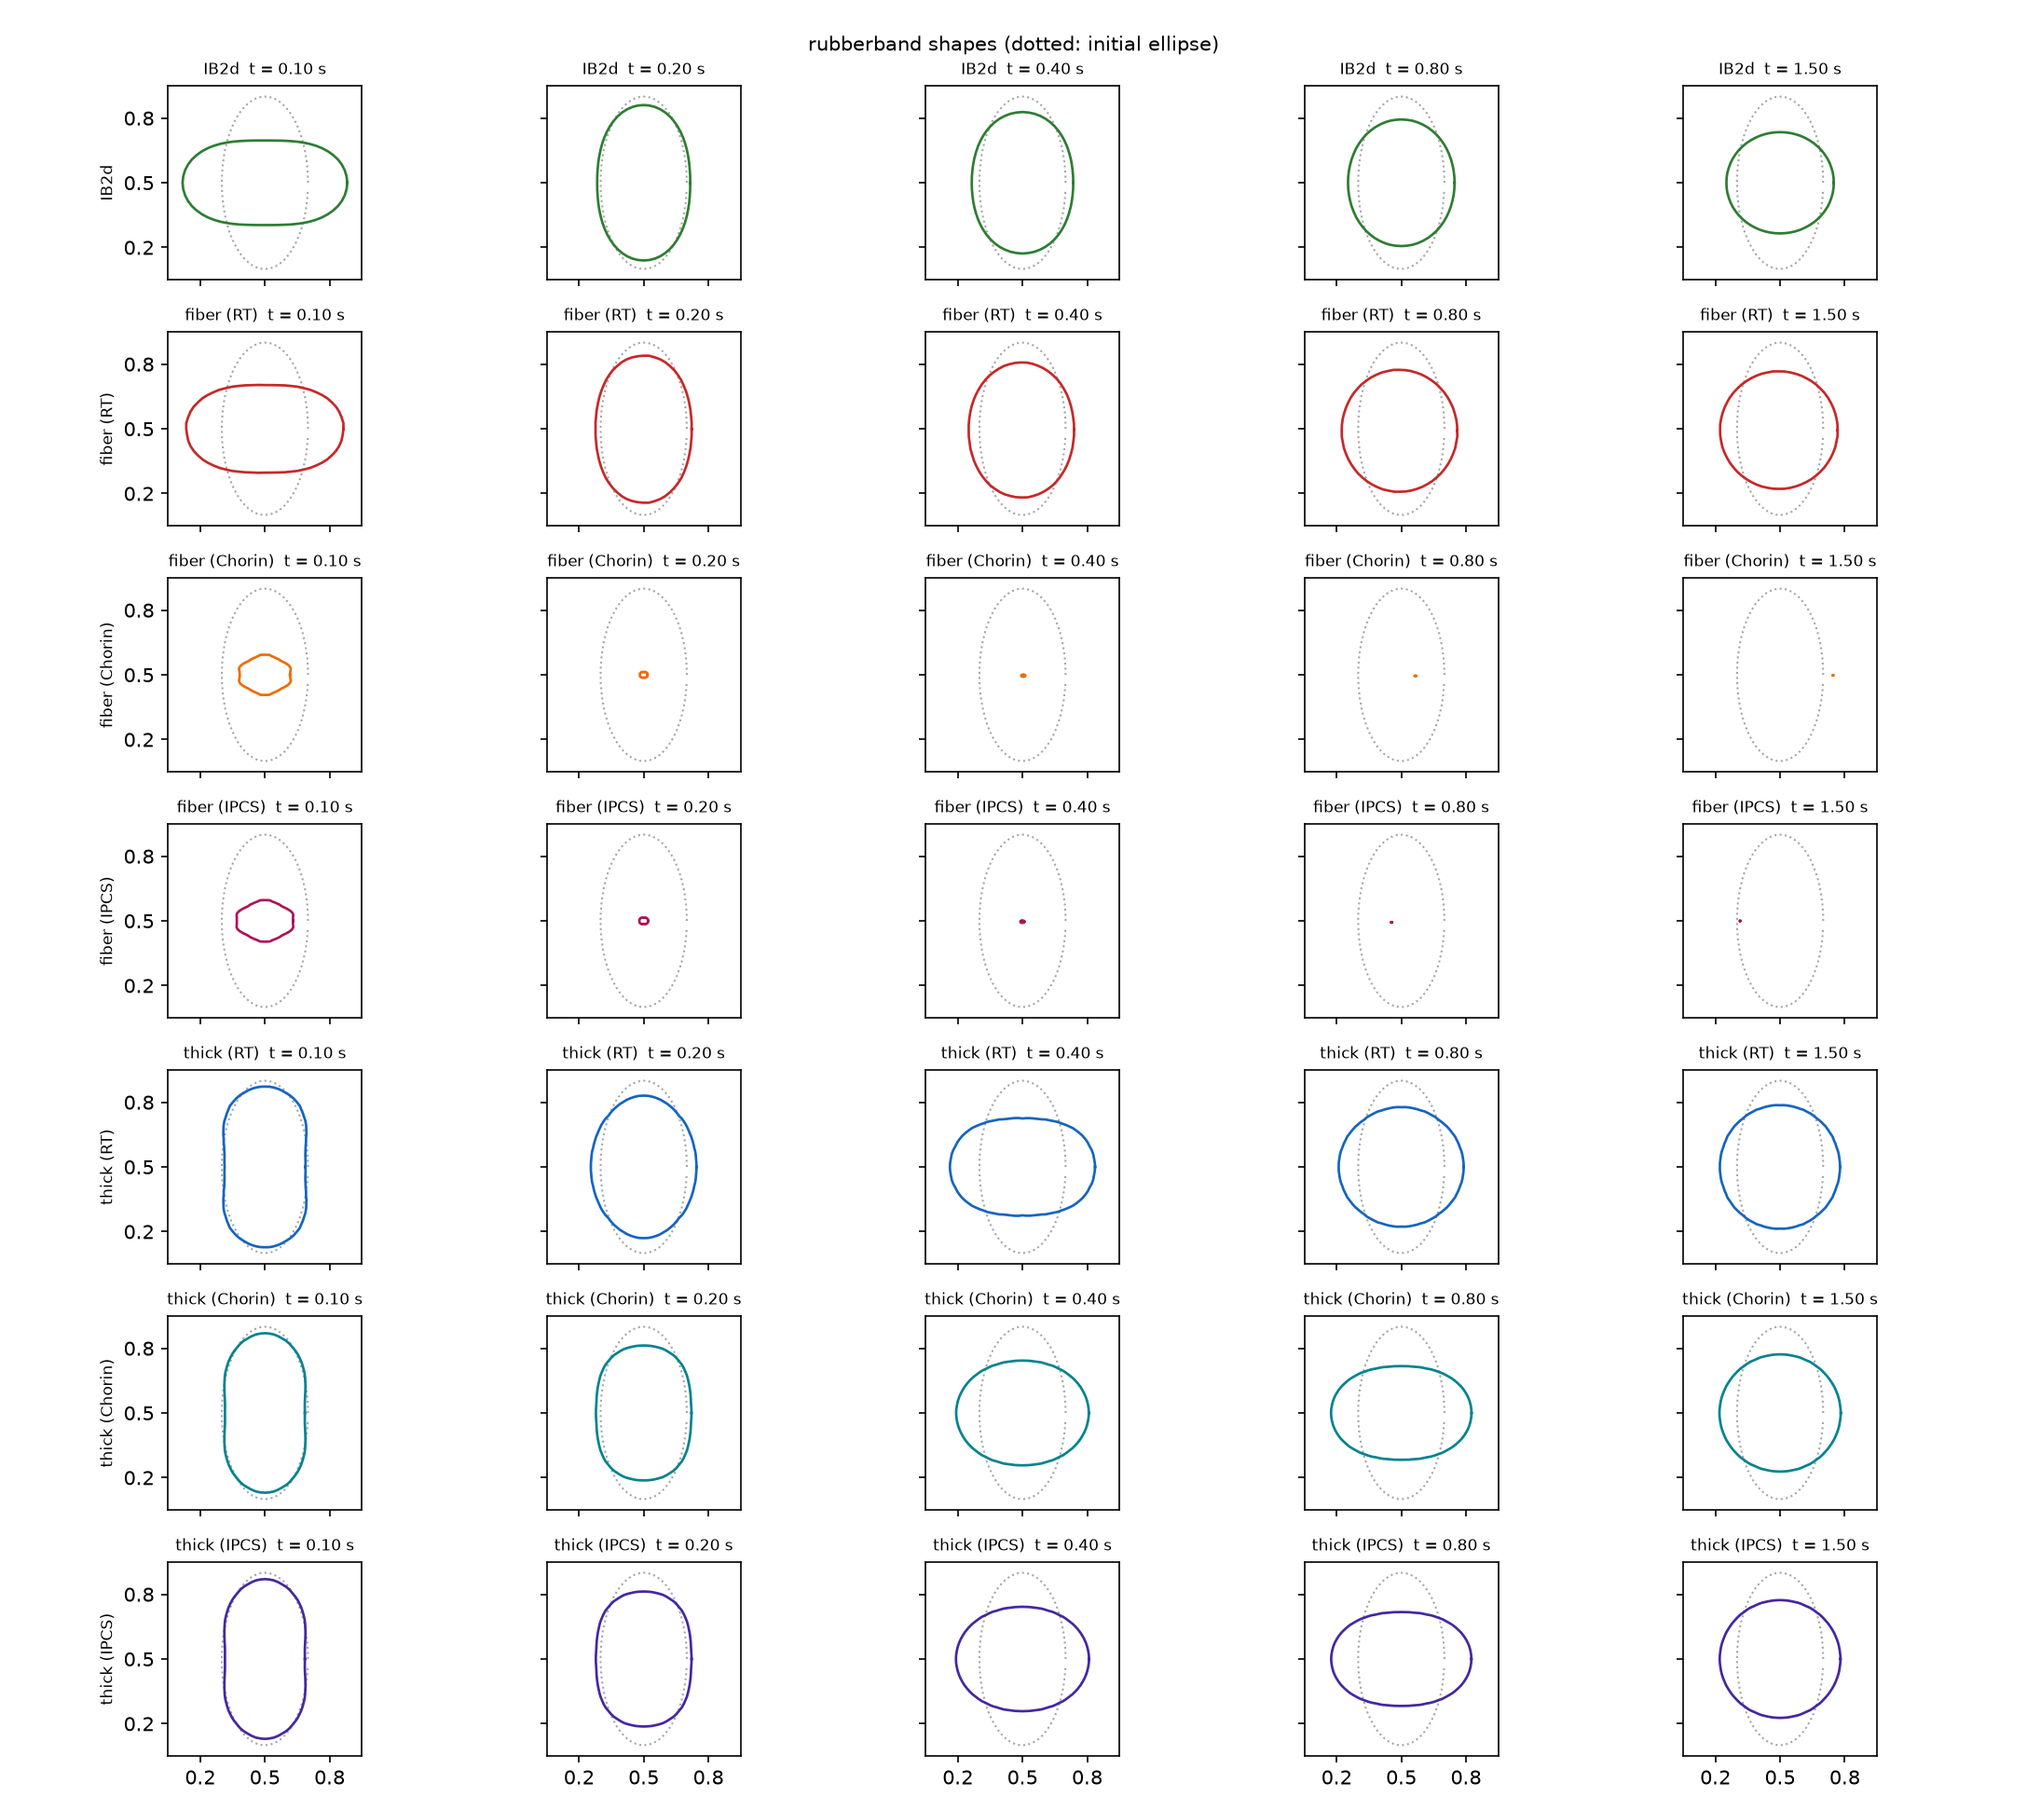
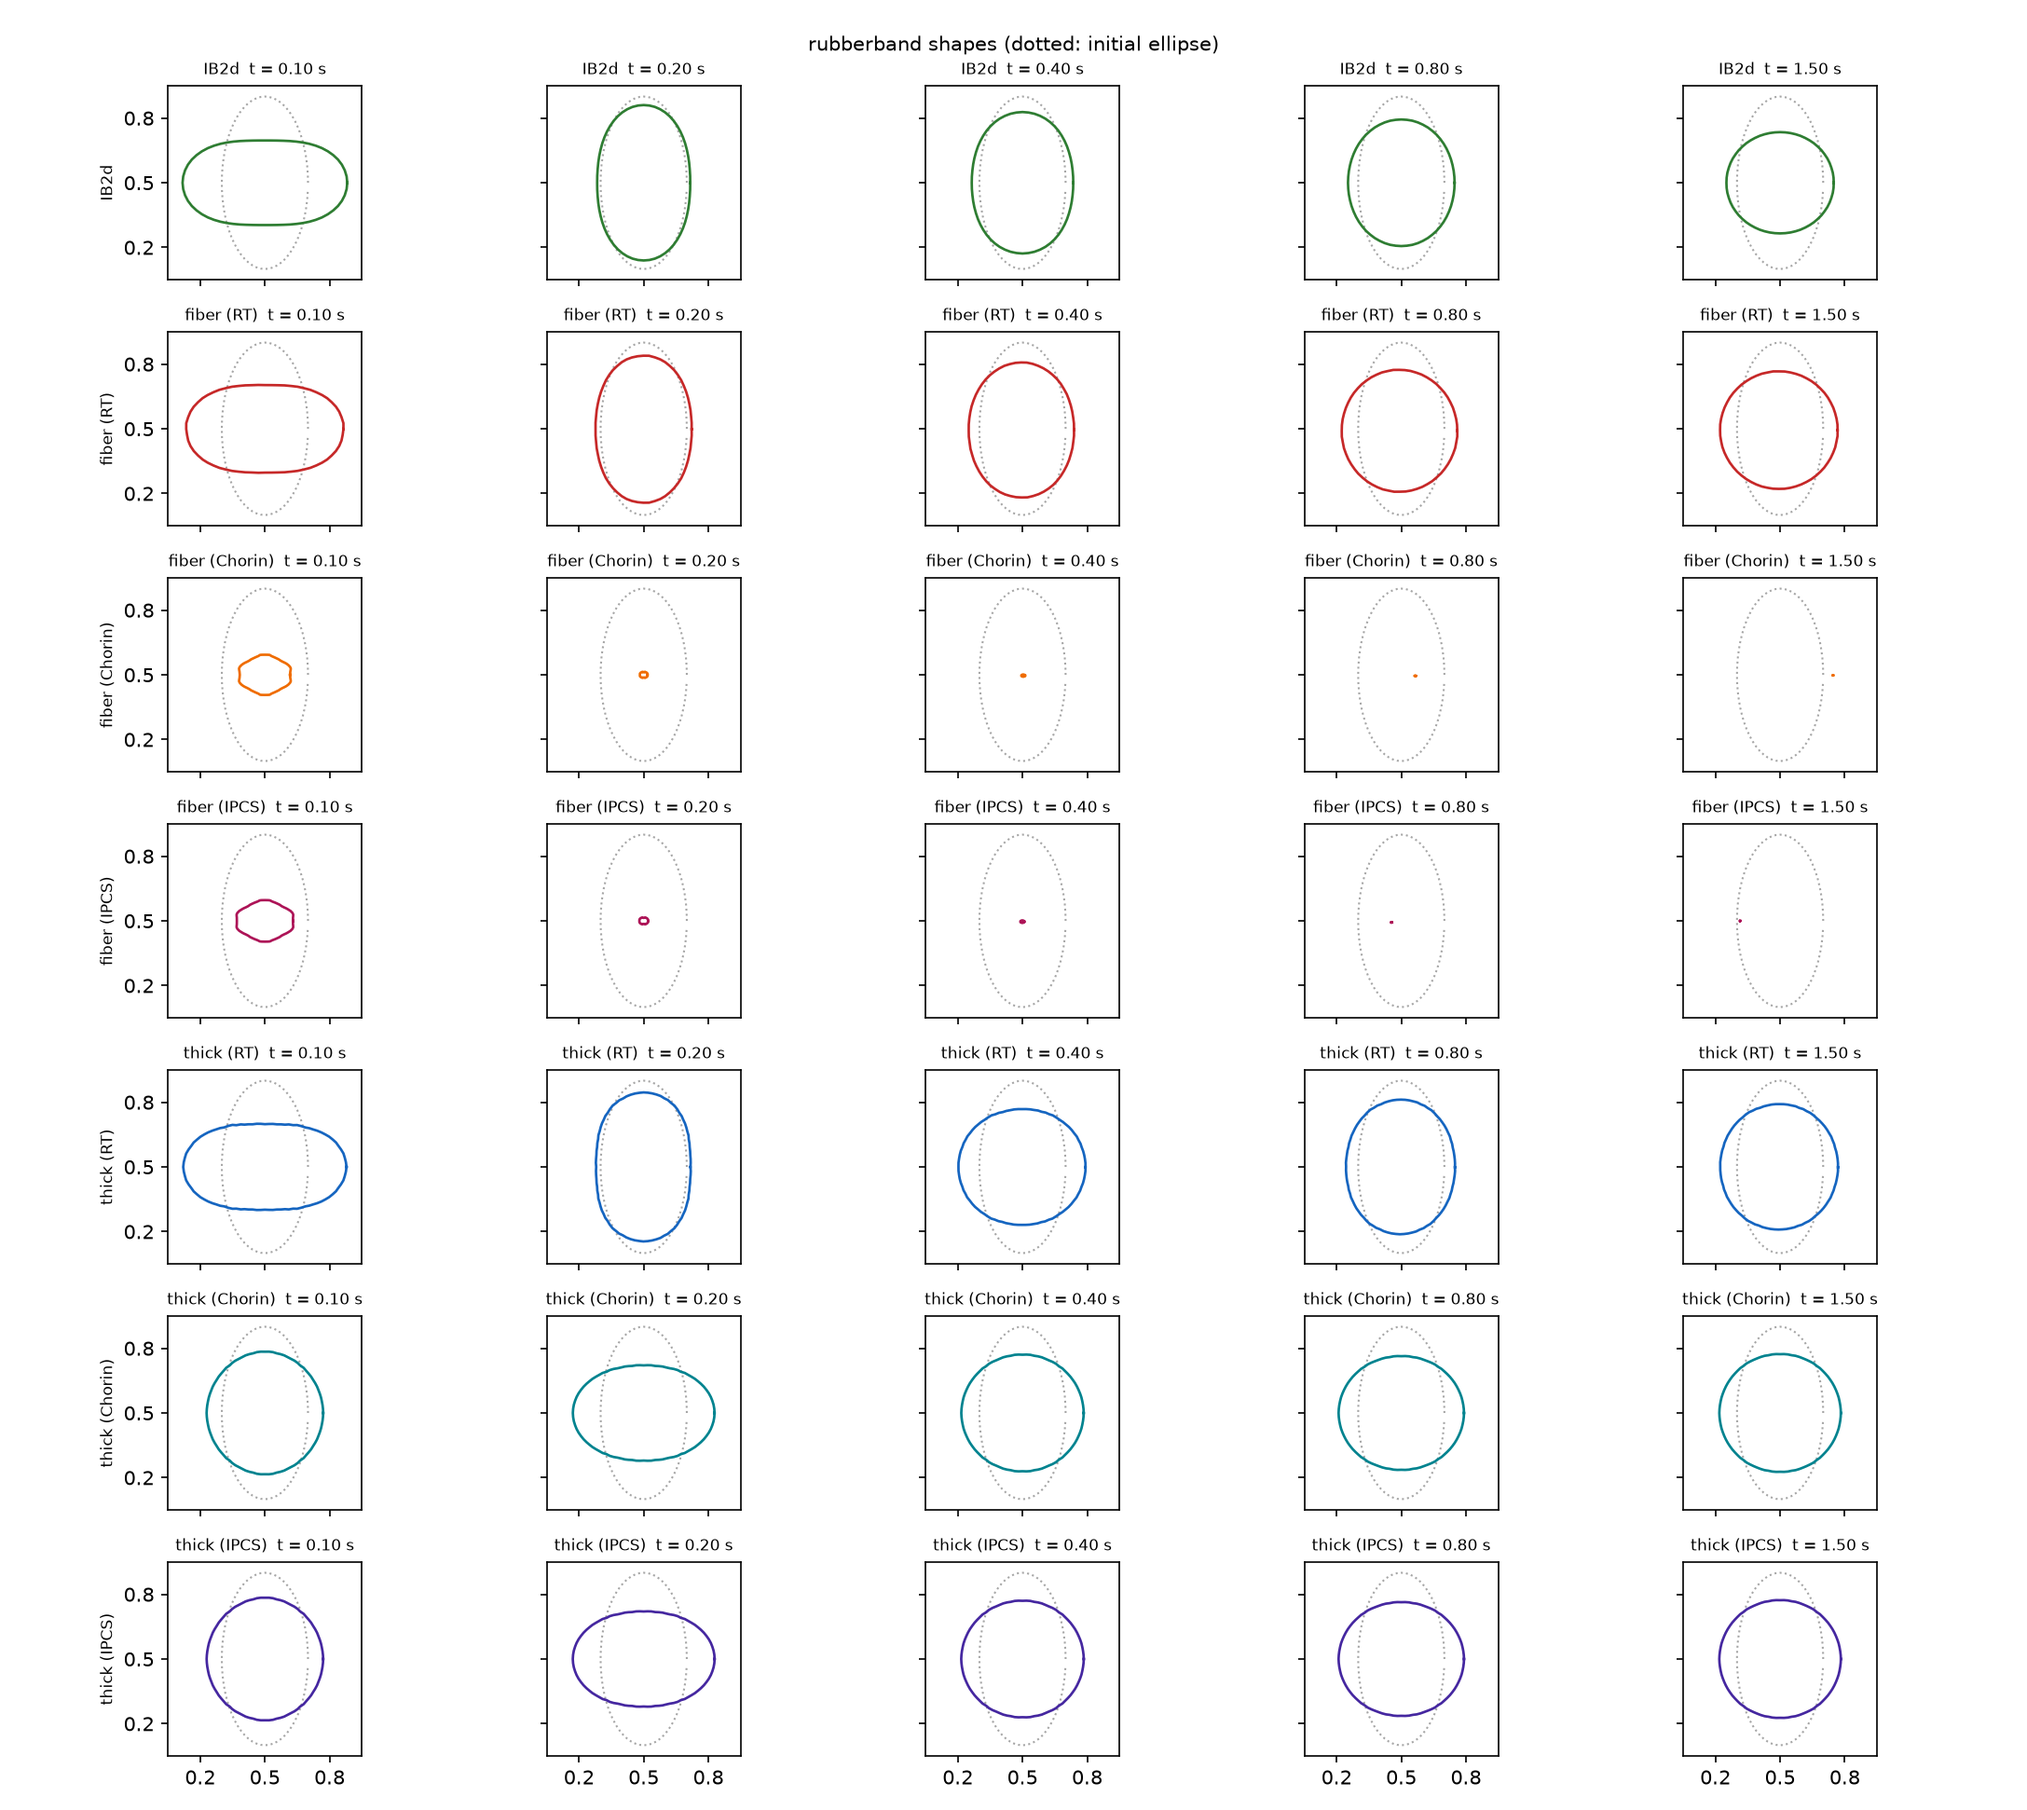
。

diff --git a/content/afsi/demo-444.md b/content/afsi/demo-444.md
@@ -32,7 +32,7 @@ RT/DG solver and the two projection schemes (Chorin, IPCS) on the P2/P1 +
 four-point kernel background. All six runs are compared against the
 registered IB2d run; the projection runs double as the leak test of §4.
 
-{{< figure src="/afsi/demo444-shapes.png" title="Figure 1. Rubberband shape at t = 0.10, 0.20, 0.40, 0.80 and 1.50 s (dotted grey: the initial ellipse) — one row per run: IB2d (registered) and the six AFSI runs {fiber, thick} × {RT, Chorin, IPCS}. The fiber (RT) rings like IB2d and settles onto the equal-area circle, while both fiber projections collapse within 0.14 s (rows 3–4). The thick annulus resists collapse under all three solvers; its timescale is set by the solid, not the fluid solver." >}}
+{{< figure src="/afsi/demo444-shapes.png" title="Figure 1. Rubberband shape at t = 0.10, 0.20, 0.40, 0.80 and 1.50 s (dotted grey: the initial ellipse) — one row per run: IB2d (registered) and the six AFSI runs {fiber, thick} × {RT, Chorin, IPCS}. The fiber (RT) rings like IB2d and settles onto the equal-area circle, while both fiber projections collapse within 0.14 s (rows 3–4). The thick annulus (calibrated to ring with IB2d) resists collapse under all three solvers." >}}
 
 ## 2. Setup
 
@@ -45,15 +45,20 @@ $k = 2.5 \times 10^4$, resting length 0, force density
 $f_i = k\,(X_{i+1} + X_{i-1} - 2X_i)$.
 
 AFSI settings: fluid mesh `N = 16` quads whose P2 velocity nodes
-(33 × 33, spacing 1/32) sit exactly on IB2d's grid; same `dt`, `rho`, `mu`;
+(33 × 33, spacing 1/32) sit exactly on IB2d's grid; same `rho` and `mu` (the thick runs use
+$dt = 10^{-4}$ for stability);
 RT/DG velocity–pressure pair (H(div)-conforming, exactly divergence-free
 velocity) with the nodal coupling `E` / `Eᵀ`; the two projection runs
 (`FLUID=chorin`, `FLUID=ipcs`) use the same P2/P1 pair, the same
 four-point-kernel coupling and the same load — only the solver changes.
 The thick band: wall
 thickness 0.05 (stress-free radii 0.2328 / 0.2828), 96 × 2 polar cells,
-neo-Hookean with $\mu_s = 40$, $\kappa_{stab} = 400$, prestrained by the
-affine map that puts its outer edge on the IB2d ellipse. One setup
+neo-Hookean (calibrated $\mu_s = 750$, $\kappa_{stab} = 7500$, ×18.75 from
+the original 40, so that the band rings with IB2d: first $a_x$ swing
+0.106 s / 0.382 vs IB2d 0.10 / 0.382, period 0.23 s vs 0.20 s), prestrained
+by the affine map that puts its outer edge on the IB2d ellipse. The thick
+runs use $dt = 10^{-4}$: the stiff band exceeds the explicit coupling's
+stability limit at $dt = 10^{-3}$. One setup
 difference is kept deliberately: IB2d's box is periodic, AFSI's has no-slip
 walls (the band stays inside $|X-1/2| \le 0.4$).
 
@@ -78,7 +83,7 @@ and doubled the period; the runs here use the verified value.)
 
 ## 4. The enclosed area separates the solvers
 
-{{< figure src="/afsi/demo444-area.png" title="Figure 2. Seven curves per panel: IB2d + the six AFSI runs. Left: enclosed area. Second: relative area error (log). Third/fourth: semi-axes a_x, a_y. Only the RT runs hold the enclosed area (fiber −7 %, thick −0.15 %); both projection flavours leak — the fiber collapses by 0.14 s, the thick annulus loses 4.7 % — and Chorin ≡ IPCS on both shapes (their curves overplot)." >}}
+{{< figure src="/afsi/demo444-area.png" title="Figure 2. Seven curves per panel: IB2d + the six AFSI runs. Left: enclosed area. Second: relative area error (log). Third/fourth: semi-axes a_x, a_y. Only the RT runs hold the enclosed area (fiber −7 %, thick −0.35 %); both projection flavours leak — the fiber collapses by 0.14 s, the thick annulus loses 3.7 % and rings 2.7× slower — and Chorin ≡ IPCS on both shapes (their curves overplot)." >}}
 
 For an incompressible fluid, the enclosed area can only change through the
 velocity sampled **at the markers**. A projection method enforces
@@ -103,8 +108,10 @@ not to the projection flavour or the time step. It is also not a defect of
 the kernel or the force (which was verified against the instrumented IB2d
 run, §3). The same defect runs through both shapes: over the full window
 the unsupported fiber collapses to 5 % of its area by $t = 0.14$ s while
-the thick annulus loses 4.7 % of its enclosed area (Chorin −4.71 %,
-IPCS −4.70 %) against −0.15 % for RT.
+the thick annulus loses 3.7 % of its enclosed area (Chorin −3.66 %,
+IPCS −3.67 %) against −0.35 % for RT — and rings 2.7× slower (0.63 s vs
+0.23 s), as if the weakened pressure feedback also softens the coupling to
+the elastic band.
 
 The RT velocity is divergence-free **by construction**, and the leak is
 two orders of magnitude smaller: −0.56 % at 0.02 s, −7.1 % after the full
@@ -122,18 +129,20 @@ $t \approx 0.3$ s).
 | AFSI fiber (RT) | 0.2235 | 0.3412 | 0.2335 (−7.1 %) | circle $R = 0.279$ |
 | AFSI fiber (Chorin) | 0.018 | 0.014 | 0.000004 (−100 %) | collapsed by $t = 0.14$ s |
 | AFSI fiber (IPCS) | 0.020 | 0.016 | 0.000000 (−100 %) | collapsed by $t = 0.14$ s |
-| AFSI thick (RT) | 0.2452 | 0.3308 | 0.2510 (−0.15 %) | circle $R = 0.283$ |
-| AFSI thick (Chorin) | 0.2217 | 0.3129 | 0.2395 (−4.7 %) | still creeping |
-| AFSI thick (IPCS) | 0.2220 | 0.3131 | 0.2395 (−4.7 %) | still creeping |
+| AFSI thick (RT) | 0.2207 | 0.3457 | 0.2505 (−0.35 %) | ringing toward circle $R = 0.283$ |
+| AFSI thick (Chorin) | 0.3286 | 0.2216 | 0.2421 (−3.7 %) | slow ringing (0.63 s) |
+| AFSI thick (IPCS) | 0.3289 | 0.2212 | 0.2421 (−3.7 %) | slow ringing (0.63 s) |
 
 - **Physics check.** A zero-rest-length band at a fixed enclosed area
   minimises its spring energy $\tfrac{k}{2}\sum s_i^2 \propto$ perimeter²
   when it is the **circle** of that area: $R = \sqrt{A_0/\pi} = 0.2826$.
   The AFSI fiber settles onto $R = 0.279$ — the equal-area circle — through
   a large damped aspect-ratio oscillation (the ellipse's sides bulge out,
-  overshoot, and ring down with a 0.19-s period). The thick annulus
-  settles onto its stress-free circle, $R_{out} = 0.2828$; the two models
-  therefore share the same equilibrium radius family by construction.
+  overshoot, and ring down with a 0.19-s period). The thick annulus rings
+  in the same ~0.2-s family (calibrated $\mu_s$, §2) and relaxes toward
+  its stress-free circle $R_{out} = 0.2828$ (still $\pm 0.01$ at
+  $t = 1.5$ s); the two models share the same equilibrium radius family by
+  construction.
 - **Agreement with IB2d.** With the spreading weight calibrated to IB2d's
   own convention (§3) the two rings oscillate in phase at the same
   ~0.2-s period: first and second $a_x$ peaks at 0.106 s / 0.302 s (AFSI)
@@ -142,16 +151,19 @@ $t \approx 0.3$ s).
   $t = 0.2$ s ($a_x$: 0.224 vs 0.216, $a_y$: 0.341 vs 0.360). The
   late-time divergence is IB2d's own enclosed-area drift: its 27 % loss
   shrinks the band (its period drifts to 0.18 s), while the RT band holds
-  its area to −7.1 %.
+  its area to −7.1 %. The calibrated thick band lands on IB2d's first
+  swing as well ($a_x$ peak 0.106 s / 0.382 vs IB2d 0.10 / 0.382) and
+  rings at 0.23 s, with its area loss at 0.35 %.
 - **The failure mode.** The projection runs are shown for exactly one
   lesson: at this force scale a P2/P1 (Taylor–Hood on quads) velocity
   cannot keep an immersed closed band's area — the defect is in the
   sampled divergence, not in the kernel or the time step. The unsupported
   fiber collapses to 5 % of the initial area by $t = 0.14$ s; the thick
-  annulus cannot collapse (its elasticity holds the ring) but still drains
-  4.7 % of the enclosed area, and Chorin and IPCS agree to 0.01 %.
+  annulus cannot collapse (its elasticity holds the ring) but drains 3.7 %
+  of the enclosed area and rings 2.7× slower than the RT band; Chorin and
+  IPCS agree to 0.01 %.
 
-{{< figure src="/afsi/demo444-velocity.png" title="Figure 3. Maximum marker speed |dX/dt| (finite differences of the dumped marker paths — a kinematic measure comparable across codes) — seven curves. IB2d and the fiber (RT) ring down at the same ~0.2-s period with similar peaks (≈3 m/s); the fiber projections die within 0.15 s; the three thick runs share the elastic time scale and never collapse." >}}
+{{< figure src="/afsi/demo444-velocity.png" title="Figure 3. Maximum marker speed |dX/dt| (finite differences of the dumped marker paths — a kinematic measure comparable across codes) — seven curves. IB2d and the fiber (RT) ring down at the same ~0.2-s period with similar peaks (≈3 m/s); the fiber projections die within 0.15 s; the calibrated thick band rings just behind the fiber (0.23 s) and never collapses, while the two projection thick runs ring 2.7× slower." >}}
 
 ## 6. Caveats
 
